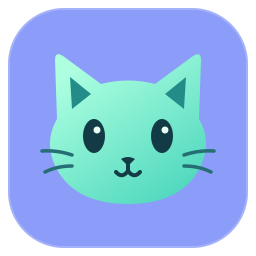
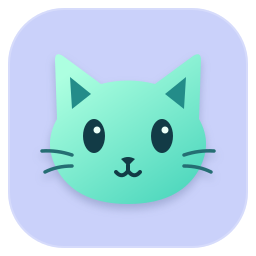
界面：采用C档浅紫主色并为猫猫轮廓添加柔和阴影

diff --git a/cmd/clashgo/theme.go b/cmd/clashgo/theme.go
@@ -6,14 +6,14 @@ import (
 	ovtheme "github.com/oneo-me/onevra/source/theme"
 )
 
-// Lavender-blue identity (user-set at project start): #8B9CF9 is the
-// brand color (fills, washes, tray disc); a deepened sibling serves as
+// Pale lavender identity (user-selected palette C): #CAD1FA is the
+// brand color (fills, washes, cat icon); a deepened sibling serves as
 // the interactive accent so white labels stay legible on buttons and
 // switches. The whole UI derives from the theme installed per frame in
 // view(), so Onevra components pick the colors up automatically — no
 // per-widget hardcoding.
 var (
-	colBrand  = ui.Hex("#8B9CF9")
+	colBrand  = ui.Hex("#CAD1FA")
 	colAccent = ui.Hex("#5B67D8")
 	// colAmber marks the default profile (Shadowrocket's orange dot).
 	colAmber = ui.Hex("#F0A23C")
@@ -103,10 +103,13 @@ func lavenderTheme(c *ui.Context) *ui.Theme {
 func syncPalette(t *ui.Theme) {
 	colBg, colPanel, colText, colMuted, colBorder = t.Background, t.Surface, t.Text, t.TextMuted, t.Border
 	colDanger, colWarn, colOK = t.Danger, t.Warning, t.Success
-	colRail = t.Background.Mix(t.Accent, 0.035)
+	colRail = t.Background.Mix(colBrand, 0.10)
 	colInset = t.Text.Alpha(0.05)
 	colHover = t.Text.Alpha(0.045)
-	colWash = t.Accent.Alpha(0.10)
+	colWash = colBrand.Alpha(0.24)
+	if t.Dark {
+		colWash = colBrand.Alpha(0.10)
+	}
 	colFaint = t.TextMuted.Mix(t.Background, 0.30)
 	colZebra = t.Text.Alpha(0.022)
 	colShadowCol = ui.RGBA(0, 0, 0, 0.10)

diff --git a/cmd/clashgo/view.go b/cmd/clashgo/view.go
@@ -494,9 +494,9 @@ func (a *App) pageOverview(c *ui.Context) {
 					fabIcon = lucide.Pause()
 				}
 				fab := ui.Column(c).Width(58).Height(58).Radius(29).
-					LinearGradient(ui.LinearGradient{From: colAccent, To: colBrand, Angle: 135}).
-					Shadow(0, 6, 16, 0, colAccent.Alpha(0.35)).
-					AlignItems(ui.Center).Padding(17).TextColor(ui.Hex("#FFFFFF"))
+					LinearGradient(ui.LinearGradient{From: colBrand, To: colBrand.Mix(ui.Hex("#FFFFFF"), 0.30), Angle: 135}).
+					Shadow(0, 6, 16, 0, colAccent.Alpha(0.18)).
+					AlignItems(ui.Center).Padding(17).TextColor(ui.Hex("#34364B"))
 				fab.Children(func() { ov.Icon(c, fabIcon).Size(24, 24) })
 				fab.Label(map[bool]string{true: "暂停核心", false: "启动核心"}[coreOK])
 				if fab.Clicked() {

diff --git a/assets/README.md b/assets/README.md
@@ -1,7 +1,8 @@
 # Assets
 
 `icon.svg` is the original ClashGo mint-cat mark on the application's
-lavender-blue brand color (`#8B9CF9`). The sidebar wordmark stays text-only.
+pale lavender brand color (`#CAD1FA`, palette C), with a soft silhouette shadow.
+The sidebar wordmark stays text-only.
 
 `icon.png` is the committed 256px native tray asset embedded by `assets.go`;
 normal offline Go builds do not require an SVG renderer. After editing the SVG,
